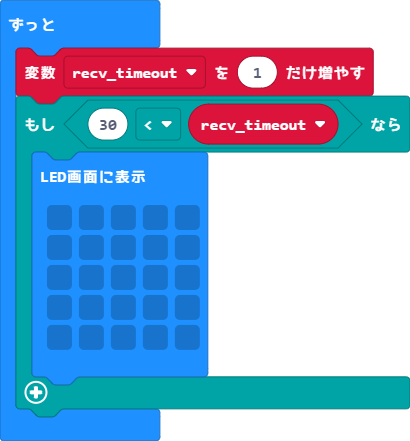
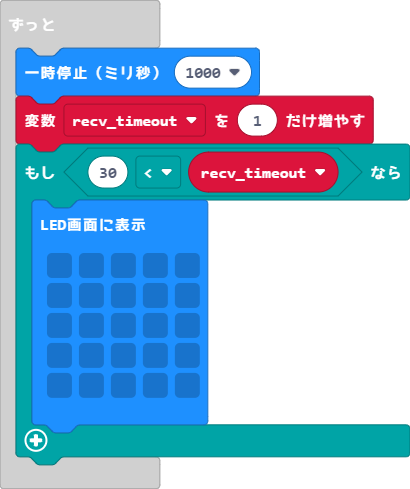
fix bug

diff --git a/main.ts b/main.ts
@@ -41,6 +41,7 @@ radio.onReceivedNumber(function (receivedNumber) {
 let recv_timeout = 0
 radio.setGroup(1)
 basic.forever(function () {
+    basic.pause(1000)
     recv_timeout += 1
     if (30 < recv_timeout) {
         basic.showLeds(`
